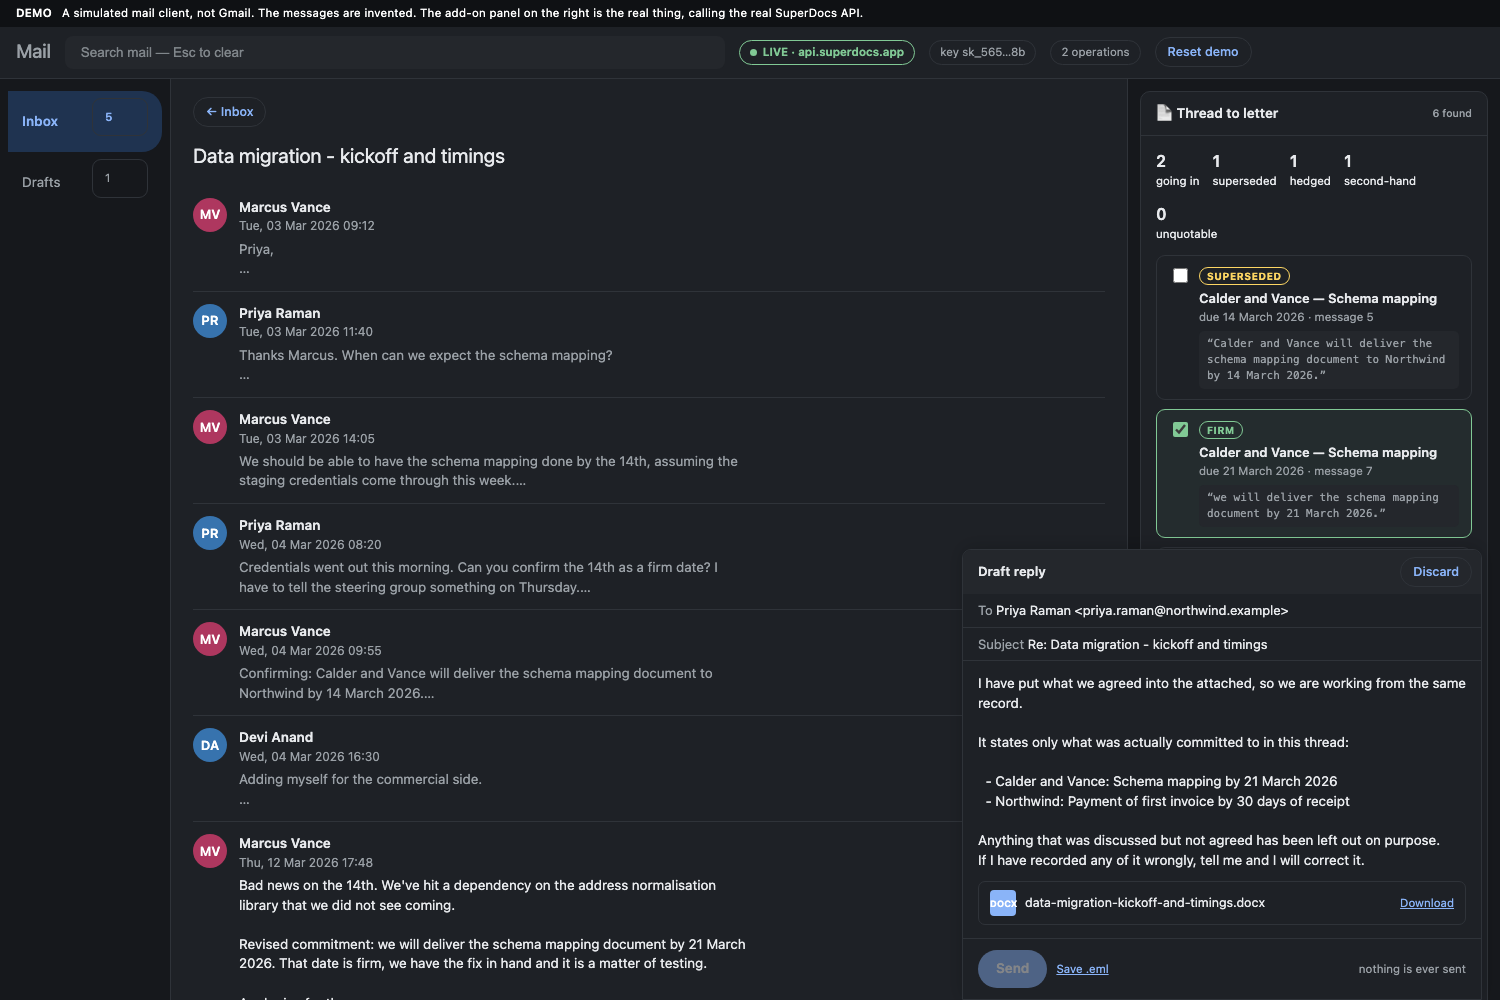
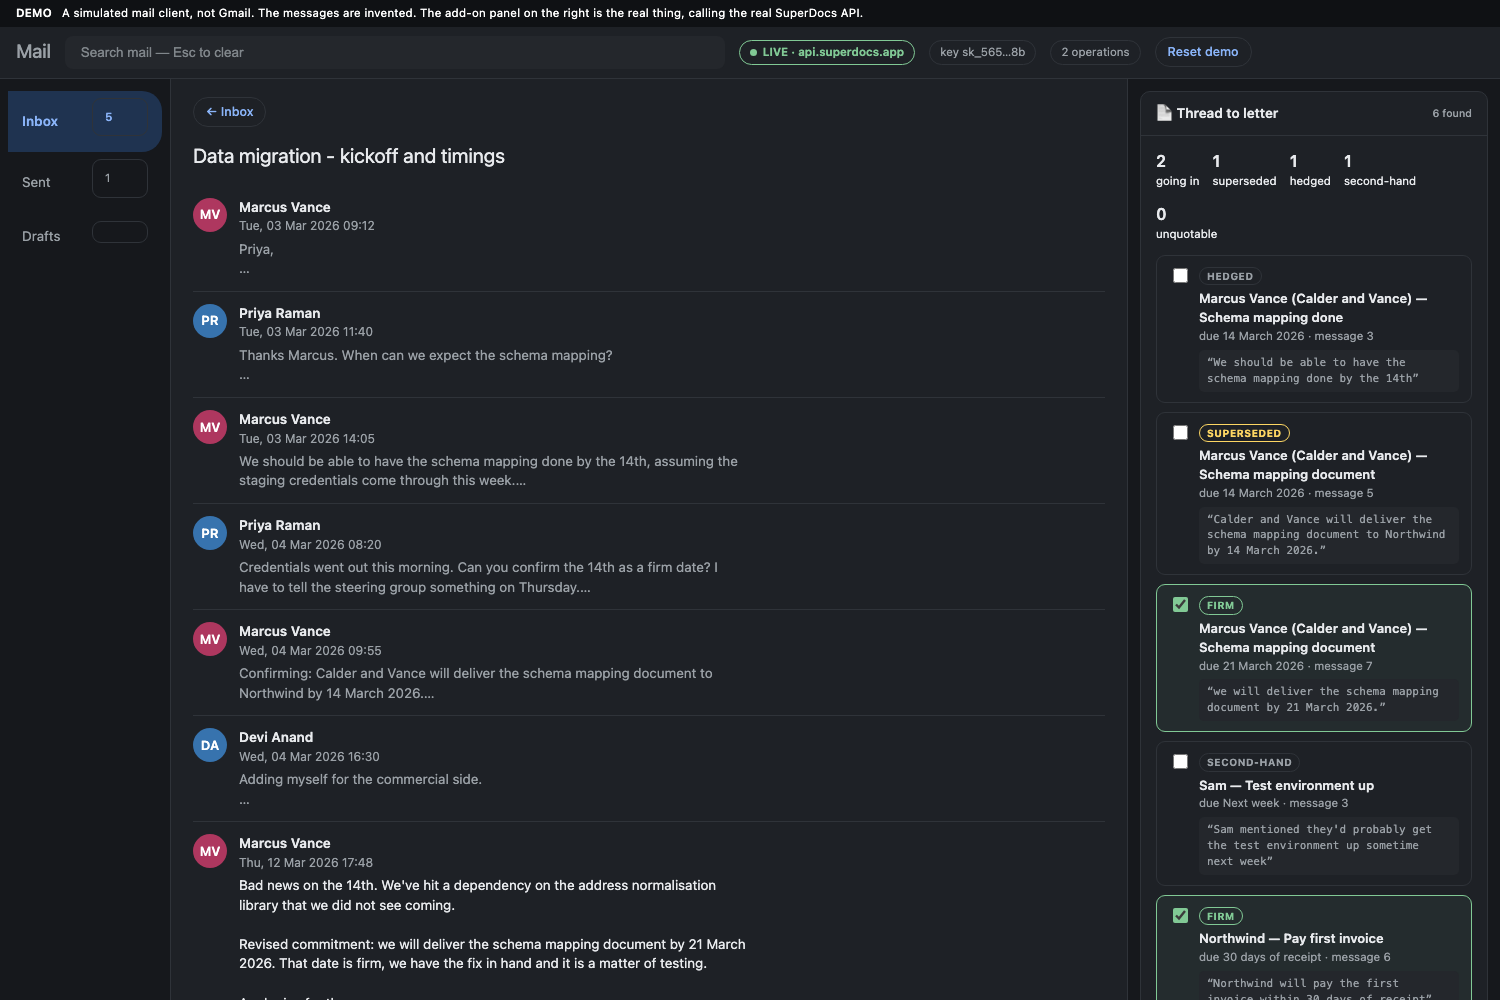
Send works, and files the reply in Sent
Send was disabled with a note saying nothing is ever sent. Technically honest,
practically a dead button in the middle of the demo. It sends now, into the
simulated mailbox this already is: the reply moves to Sent with its attachment,
Drafts goes back to empty, and the message stays downloadable from there. The
confirmation says plainly that nothing leaves the machine and points at Save
.eml for really sending one.

Sent is back in the nav, because it does something now. That was the rule the
stars and Snoozed failed.

Also fixed a false alarm that showed up while testing this. The
superseded-without-replacement warning matched parties as opaque strings, so a
row attributed to "Meridian Legal / Northwind" matched neither, and the demo
warned that a replacement was missing when it was there. Joint parties are now
split on separators that are unambiguous — but never on "and" or "&", because
"Calder and Vance" is one firm and nothing in the string distinguishes it from
two. Tearing a company name in half to match the wrong party would be a worse
failure than the missed join it fixes, and there is a test pinning that down.

56 tests.

diff --git a/extensions/vishvamsinh28/thread-to-letter/src/thread_to_letter/console.html b/extensions/vishvamsinh28/thread-to-letter/src/thread_to_letter/console.html
@@ -181,6 +181,8 @@
   <nav class="nav">
     <a id="nav-inbox" class="on" data-act="inbox" href="#">Inbox
       <span class="c" id="nav-count"></span></a>
+    <a id="nav-sent" data-act="sent" href="#">Sent
+      <span class="c" id="nav-sent-c"></span></a>
     <a id="nav-draft" data-act="drafts" href="#">Drafts
       <span class="c" id="nav-drafts"></span></a>
   </nav>
@@ -238,8 +240,9 @@
     // than after a round-trip. Only the two that need the server wait for it.
     if(act === "open")      { view = "thread"; post("/api/open", {name: arg}); }
     else if(act === "back" || act === "inbox") { view = "inbox"; post("/api/close"); }
-    else if(act === "drafts"){ view = "drafts"; drawn.thread = null;
-                               if(last) render(last); poll(); }
+    else if(act === "drafts" || act === "sent"){
+      view = act; drawn.thread = null; if(last) render(last); poll();
+    }
     else if(act === "extract"){ post("/api/extract"); }
     else if(act === "write"){ post("/api/letter", {shape}); }
     else if(act === "nothing"){
@@ -248,6 +251,14 @@
                + `to anything.\n\nThis costs one operation.`,
            yes: `Write the ${shape}`})
         .then(ok => ok && post("/api/letter", {shape, record_nothing: true}));
+    }
+    else if(act === "send"){
+      ask({title: "Send this reply?",
+           body: "This is a simulated mailbox — nothing leaves your machine. The message "
+               + "will appear in Sent.\n\nTo really send it, use Save .eml and open it "
+               + "in your mail client.",
+           yes: "Send"})
+        .then(ok => { if(ok){ view = "sent"; post("/api/send"); } });
     }
     else if(act === "discard"){
       ask({title: "Discard this draft?",
@@ -329,10 +340,13 @@
     $("ops").textContent = `${c.operations} operation${c.operations===1?"":"s"}`;
     $("nav-count").textContent = s.inbox.length;
     $("nav-drafts").textContent = s.draft ? "1" : "";
-    $("nav-inbox").className = view === "drafts" ? "" : "on";
+    $("nav-sent-c").textContent = s.sent.length || "";
+    $("nav-inbox").className = (view === "drafts" || view === "sent") ? "" : "on";
     $("nav-draft").className = view === "drafts" ? "on" : "";
+    $("nav-sent").className  = view === "sent"   ? "on" : "";
 
-    if(view === "drafts") renderDrafts(s);
+    if(view === "sent") renderSent(s);
+    else if(view === "drafts") renderDrafts(s);
     else if(!s.thread) renderInbox(s);
     else renderThread(s);
 
@@ -396,6 +410,33 @@
       </div>`
       : `<div style="padding:34px 20px" class="empty">No drafts yet. Open a thread and
          write a letter.</div>`;
+  }
+
+  function renderSent(s){
+    const sig = "sent:" + s.sent.length;
+    if(drawn.thread === sig) return;
+    drawn.thread = sig; drawn.inbox = null;
+    $("mail").innerHTML = s.sent.length ? `<div class="thread">
+        <button class="ghost small" data-act="inbox">← Inbox</button>
+        <p class="sm" style="margin:12px 0 4px">Simulated mailbox — nothing left this
+          machine. Use <b>Save .eml</b> on a draft to really send one.</p>
+        ${s.sent.map((m,i) => `
+          <div class="m">
+            <div class="av" style="background:hsl(145 45% 38%)">↗</div>
+            <div>
+              <div class="who">${esc(m.subject)}</div>
+              <div class="meta">To ${esc(m.to)} · ${esc(m.at)}</div>
+              <div class="txt">${esc(m.body)}</div>
+              <div class="att" style="margin:11px 0 0;max-width:420px">
+                <span class="x">DOCX</span><span>${esc(m.attachment)}</span>
+                <a class="sm" style="margin-left:auto;color:var(--accent)"
+                   href="/api/sent/${i}?fmt=docx">Download</a>
+              </div>
+            </div>
+          </div>`).join("")}
+      </div>`
+      : `<div style="padding:34px 20px" class="empty">Nothing sent yet. Open a thread,
+         write a letter, then press Send.</div>`;
   }
 
   function renderAddon(s){
@@ -503,9 +544,9 @@
         <a class="sm" style="margin-left:auto;color:var(--accent)"
            href="/api/export?fmt=docx">Download</a></div>
       <div class="actions">
-        <button disabled title="This is a demo. It never sends mail.">Send</button>
+        <button data-act="send">Send</button>
         <a class="sm" style="color:var(--accent)" href="/api/reply?fmt=docx">Save .eml</a>
-        <span class="sm" style="margin-left:auto">nothing is ever sent</span>
+        <span class="sm" style="margin-left:auto">simulated — nothing leaves this machine</span>
       </div></div>`;
   }
 

diff --git a/extensions/vishvamsinh28/thread-to-letter/src/thread_to_letter/web.py b/extensions/vishvamsinh28/thread-to-letter/src/thread_to_letter/web.py
@@ -15,6 +15,7 @@ the letter says.
 from __future__ import annotations
 
 import threading
+import time
 from dataclasses import dataclass, field
 from pathlib import Path
 from typing import Any
@@ -61,6 +62,10 @@ class ConsoleService:
         self.settings = load_settings()
         self.threads_dir = Path(threads_dir)
         self.state = State()
+        #: Messages "sent" in this simulated mailbox. Nothing leaves the machine — the
+        #: banner says so — but a demo where Send does nothing is a demo with a dead
+        #: button in it, and the .eml download is there for really sending one.
+        self.sent: list[dict[str, Any]] = []
         self._lock = threading.Lock()
         self._calls: list[dict[str, Any]] = []
         self._seq = 0
@@ -185,14 +190,45 @@ class ConsoleService:
         finally:
             state.busy = ""
 
+    def send_draft(self) -> str:
+        """File the draft in Sent. Simulated: no mail leaves this machine."""
+        draft = self._draft_preview()
+        if draft is None:
+            raise ValueError("write the letter first")
+        self.sent.insert(0, {
+            **draft,
+            "html": self.state.letter_html,
+            "at": time.strftime("%d %b %H:%M"),
+            "commitments": [
+                {"party": c.party, "obligation": c.obligation, "due": c.due}
+                for c in self.state.commitments if c.quote in self.state.chosen
+            ],
+        })
+        self.state.letter_html = ""
+        self.state.letter_session = ""
+        return draft["subject"]
+
+    def sent_export(self, index: int, fmt: str) -> tuple[bytes, str]:
+        if not 0 <= index < len(self.sent):
+            raise ValueError("no such sent message")
+        item = self.sent[index]
+        if fmt not in EXPORT_FORMATS:
+            raise ValueError(f"format must be one of {', '.join(EXPORT_FORMATS)}")
+        stem = draft_mod._slug(item["subject"])
+        with self._client() as client:
+            blob = client.export(html=item["html"], fmt=fmt, options={"filename": stem})
+            self._absorb(client)
+        return blob, f"{stem}.{_SUFFIX.get(fmt, fmt)}"
+
     def discard_draft(self) -> None:
         """Throw the letter away and keep the review. Costs nothing."""
         self.state.letter_html = ""
         self.state.letter_session = ""
 
     def reset(self) -> None:
-        """Back to a blank demo: no thread, no review, no draft, no call log."""
+        """Back to a blank demo: no thread, no review, no draft, no sent, no call log."""
         self.state = State()
+        self.sent.clear()
         with self._lock:
             self._calls.clear()
             self._seq = 0
@@ -290,6 +326,12 @@ class ConsoleService:
             ],
             "letter_html": state.letter_html,
             "draft": self._draft_preview(),
+            "sent": [
+                {"to": m["to"], "subject": m["subject"], "body": m["body"],
+                 "attachment": m["attachment"], "at": m["at"],
+                 "commitments": m["commitments"]}
+                for m in self.sent
+            ],
             "busy": state.busy,
             "error": state.error,
             "calls": calls,
@@ -353,6 +395,23 @@ def create_app(threads_dir: str = "threads") -> FastAPI:
         """Back to the inbox. Keeps the call log; clears the open thread."""
         service.state = State()
         return {"ok": True}
+
+    @app.post("/api/send")
+    def send() -> dict[str, Any]:
+        try:
+            subject = service.send_draft()
+        except ValueError as exc:
+            raise HTTPException(400, detail=str(exc)) from exc
+        return {"sent": subject}
+
+    @app.get("/api/sent/{index}")
+    def sent_download(index: int, fmt: str = "docx") -> Response:
+        try:
+            blob, filename = service.sent_export(index, fmt)
+        except (ValueError, SuperDocsError) as exc:
+            raise HTTPException(400, detail=str(exc)) from exc
+        return Response(content=blob, media_type=_MEDIA.get(fmt, "application/octet-stream"),
+                        headers={"Content-Disposition": f'attachment; filename="{filename}"'})
 
     @app.post("/api/discard")
     def discard() -> dict[str, Any]:

diff --git a/extensions/vishvamsinh28/thread-to-letter/tests/test_commitments.py b/extensions/vishvamsinh28/thread-to-letter/tests/test_commitments.py
@@ -140,3 +140,40 @@ def test_quotes_inside_the_sentence_are_left_alone() -> None:
     (c,) = parse(_table(("A", "B", "thing", "", "firm", "1",
                          'he said "by Friday" and meant it')))
     assert c.quote == 'he said "by Friday" and meant it'
+
+
+def test_a_joint_party_matches_either_of_its_names() -> None:
+    """A model writes "Meridian Legal / Northwind" when an obligation involves both.
+    Treating that as one opaque party made the replacement look missing when it was not,
+    and a warning that cries wolf gets ignored when it matters."""
+    from thread_to_letter.commitments import dangling_superseded
+
+    for joint in ("Meridian Legal / Northwind", "Northwind, Meridian Legal",
+                  "Meridian Legal + Northwind"):
+        rows = parse(_table(
+            (joint, "both", "wrap renewal", "end of quarter", "superseded", "1", "q"),
+            ("Northwind", "Meridian Legal", "sign renewal", "31 Mar", "firm", "2", "q"),
+        ))
+        assert dangling_superseded(rows) == [], f"{joint!r} should match Northwind"
+
+
+def test_a_company_name_containing_and_is_not_torn_in_half() -> None:
+    """"Calder and Vance" is one firm; "Meridian Legal / Northwind" is two, and nothing
+    in the string tells them apart. So "and" is never treated as a separator — matching
+    the wrong party silently would be worse than the missed join it prevents."""
+    from thread_to_letter.commitments import _party_names
+
+    assert _party_names("Calder and Vance") == {"calder and vance"}
+    assert "meridian legal" in _party_names("Meridian Legal / Northwind")
+    assert "northwind" in _party_names("Meridian Legal / Northwind")
+
+
+def test_a_genuinely_missing_replacement_still_warns() -> None:
+    """The narrowing must not swallow the case the check exists for."""
+    from thread_to_letter.commitments import dangling_superseded
+
+    rows = parse(_table(
+        ("Acme Corp", "Northwind", "deliver widgets", "1 Mar", "superseded", "1", "q"),
+        ("Northwind", "Acme Corp", "pay invoice", "30 days", "firm", "2", "q"),
+    ))
+    assert len(dangling_superseded(rows)) == 1

diff --git a/extensions/vishvamsinh28/thread-to-letter/tests/test_pipeline.py b/extensions/vishvamsinh28/thread-to-letter/tests/test_pipeline.py
@@ -197,3 +197,53 @@ def test_a_draft_can_be_discarded_and_the_demo_reset(
     assert blank["thread"] is None
     assert blank["commitments"] == []
     assert blank["call_seq"] == 0
+
+
+def test_send_files_the_draft_in_sent(fake_server, monkeypatch) -> None:
+    """Simulated, and labelled as such — but a Send button that does nothing is a dead
+    button in the middle of the demo."""
+    from fastapi.testclient import TestClient
+
+    from thread_to_letter.web import create_app
+    from tests.conftest import FAKE_KEY, ROOT
+
+    monkeypatch.setenv("SUPERDOCS_API_KEY", FAKE_KEY)
+    monkeypatch.setenv("SUPERDOCS_BASE_URL", fake_server.base_url)
+    client = TestClient(create_app(str(ROOT / "threads")))
+
+    assert client.get("/api/state").json()["sent"] == []
+    assert client.post("/api/send").status_code == 400, "nothing to send yet"
+
+    client.post("/api/open", json={"name": "migration-project.mbox"})
+    client.post("/api/extract")
+    for _ in range(80):
+        if not client.get("/api/state").json()["busy"]:
+            break
+        time.sleep(0.2)
+    client.post("/api/letter", json={"shape": "letter"})
+    for _ in range(80):
+        if not client.get("/api/state").json()["busy"]:
+            break
+        time.sleep(0.2)
+
+    sent = client.post("/api/send")
+    assert sent.status_code == 200
+    state = client.get("/api/state").json()
+
+    assert len(state["sent"]) == 1
+    message = state["sent"][0]
+    assert message["subject"].startswith("Re: ")
+    assert "@" in message["to"]
+    assert message["attachment"].endswith(".docx")
+    assert message["commitments"], "it records what the letter actually stated"
+
+    # Sending clears the draft — it is not in two places at once.
+    assert state["draft"] is None
+
+    # And it is still downloadable from Sent.
+    download = client.get("/api/sent/0", params={"fmt": "markdown"})
+    assert download.status_code == 200 and download.content
+
+    # Reset clears the mailbox too.
+    client.post("/api/reset")
+    assert client.get("/api/state").json()["sent"] == []

diff --git a/extensions/vishvamsinh28/thread-to-letter/src/thread_to_letter/commitments.py b/extensions/vishvamsinh28/thread-to-letter/src/thread_to_letter/commitments.py
@@ -224,8 +224,27 @@ def dedupe(commitments: list["Commitment"]) -> list["Commitment"]:
     return kept
 
 
+#: Separators that join two parties. Deliberately excludes "and" and "&", because
+#: "Calder and Vance" is one firm and "Meridian Legal / Northwind" is two, and nothing in
+#: the string distinguishes them. Splitting on "and" would tear company names in half —
+#: a worse failure than the one it fixes, because it would silently match the wrong party.
+_PARTY_SPLIT = re.compile(r"\s*(?:/|,|\+|\bor\b)\s*", re.I)
+
+
 def _party_key(party: str) -> str:
     return " ".join((party or "").lower().replace("&", "and").split())
+
+
+def _party_names(party: str) -> set[str]:
+    """The individual parties named in one cell.
+
+    A model writes "Meridian Legal / Northwind" when an obligation involves both, and
+    treating that as one opaque string means it matches neither. Each name is kept
+    alongside the whole, so a joint row is recognised against either of them.
+    """
+    whole = _party_key(party)
+    parts = {p.strip() for p in _PARTY_SPLIT.split(whole) if len(p.strip()) > 2}
+    return (parts | {whole}) - {""}
 
 
 def dangling_superseded(commitments: list[Commitment]) -> list[Commitment]:
@@ -240,10 +259,13 @@ def dangling_superseded(commitments: list[Commitment]) -> list[Commitment]:
     correctly marked superseded, which would have produced a letter missing the vendor's
     actual commitment.
     """
-    firm_parties = {_party_key(c.party) for c in commitments if c.is_firm}
+    firm_parties: set[str] = set()
+    for c in commitments:
+        if c.is_firm:
+            firm_parties |= _party_names(c.party)
     return [
         c for c in commitments
-        if c.status == SUPERSEDED and _party_key(c.party) not in firm_parties
+        if c.status == SUPERSEDED and not (_party_names(c.party) & firm_parties)
     ]
 
 
